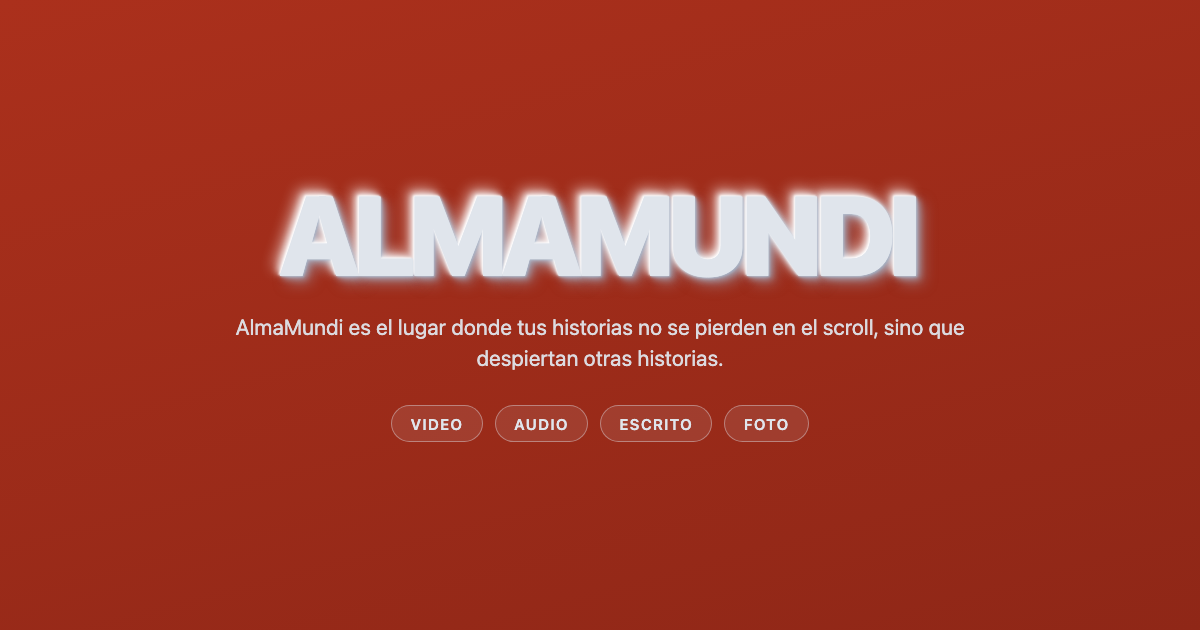
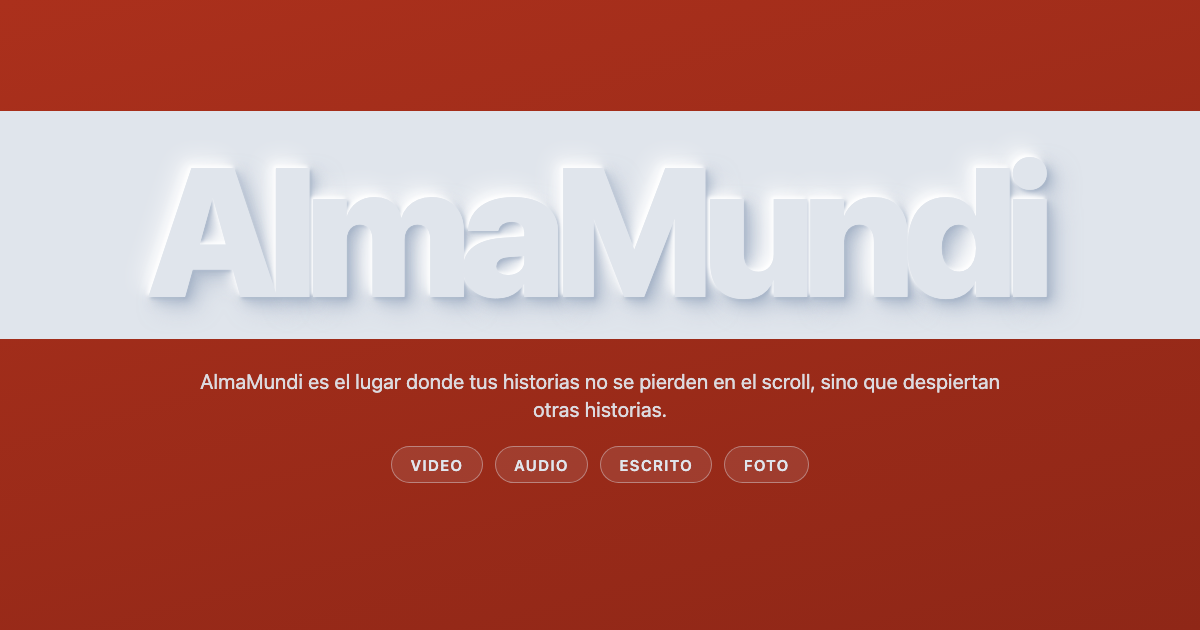
Regenerar la imagen OG con el wordmark en relieve del footer.

diff --git a/scripts/og-card.html b/scripts/og-card.html
@@ -4,6 +4,10 @@
     <meta charset="utf-8" />
     <title>AlmaMundi OG</title>
     <style>
+      :root {
+        --font-sans: system-ui, -apple-system, "Segoe UI", Avenir, sans-serif;
+        --home-bg: #e0e5ec;
+      }
       html,
       body {
         margin: 0;
@@ -19,12 +23,36 @@
         flex-direction: column;
         align-items: center;
         justify-content: center;
-        gap: 28px;
-        padding: 48px 64px 52px;
+        gap: 0;
+        padding: 0;
         background: linear-gradient(165deg, #ab301c 0%, #8f2717 100%);
-        font-family: system-ui, -apple-system, 'Segoe UI', Avenir, sans-serif;
+        font-family: var(--font-sans);
       }
-      /* Copia de `.almamundi-footer-title` en app/globals.css (relieve neumórfico). */
+      /*
+        Superficie del footer (`bg-[#E0E5EC]` en Footer.tsx).
+        El relieve de `.almamundi-footer-title` usa fill #E0E5EC: solo se lee
+        igual al sitio si el fondo detrás de las letras es ese gris, no el naranja.
+      */
+      .almamundi-footer {
+        box-sizing: border-box;
+        width: 100%;
+        display: flex;
+        flex-direction: column;
+        align-items: center;
+        justify-content: center;
+        background: #e0e5ec;
+        padding: 36px 48px 28px;
+      }
+      .almamundi-footer-brand {
+        display: flex;
+        width: 100%;
+        justify-content: center;
+        align-items: center;
+        overflow-x: clip;
+        text-align: center;
+        container-type: inline-size;
+      }
+      /* Copia literal de `.almamundi-footer-title` en app/globals.css */
       .almamundi-footer-title {
         display: block;
         width: max-content;
@@ -33,9 +61,9 @@
         margin-inline: auto;
         padding-inline-end: 0.06em;
         color: #e0e5ec;
-        font-family: system-ui, -apple-system, 'Segoe UI', Avenir, sans-serif;
+        font-family: var(--font-sans);
         font-weight: 900;
-        font-size: 7rem;
+        font-size: clamp(3rem, 16.5cqi, 12rem);
         letter-spacing: -0.06em;
         line-height: 0.9;
         white-space: nowrap;
@@ -47,11 +75,20 @@
           -0.06em -0.06em 0.12em rgba(255, 255, 255, 0.6),
           0.06em 0.06em 0.12em rgba(163, 177, 198, 0.5);
       }
+      .lower {
+        box-sizing: border-box;
+        width: 100%;
+        display: flex;
+        flex-direction: column;
+        align-items: center;
+        gap: 22px;
+        padding: 28px 64px 36px;
+      }
       .tagline {
         margin: 0;
         max-width: 52rem;
         color: rgba(224, 229, 236, 0.94);
-        font-size: 1.35rem;
+        font-size: 1.28rem;
         font-weight: 400;
         line-height: 1.4;
         letter-spacing: 0.01em;
@@ -62,7 +99,6 @@
         flex-wrap: wrap;
         justify-content: center;
         gap: 12px;
-        margin-top: 4px;
       }
       .pill {
         display: inline-flex;
@@ -82,16 +118,22 @@
   </head>
   <body>
     <div class="card">
-      <span class="almamundi-footer-title">ALMAMUNDI</span>
-      <p class="tagline">
-        AlmaMundi es el lugar donde tus historias no se pierden en el scroll, sino que
-        despiertan otras historias.
-      </p>
-      <div class="pills">
-        <span class="pill">Video</span>
-        <span class="pill">Audio</span>
-        <span class="pill">Escrito</span>
-        <span class="pill">Foto</span>
+      <div class="almamundi-footer">
+        <div class="almamundi-footer-brand">
+          <span class="almamundi-footer-title">AlmaMundi</span>
+        </div>
+      </div>
+      <div class="lower">
+        <p class="tagline">
+          AlmaMundi es el lugar donde tus historias no se pierden en el scroll, sino que
+          despiertan otras historias.
+        </p>
+        <div class="pills">
+          <span class="pill">Video</span>
+          <span class="pill">Audio</span>
+          <span class="pill">Escrito</span>
+          <span class="pill">Foto</span>
+        </div>
       </div>
     </div>
   </body>
